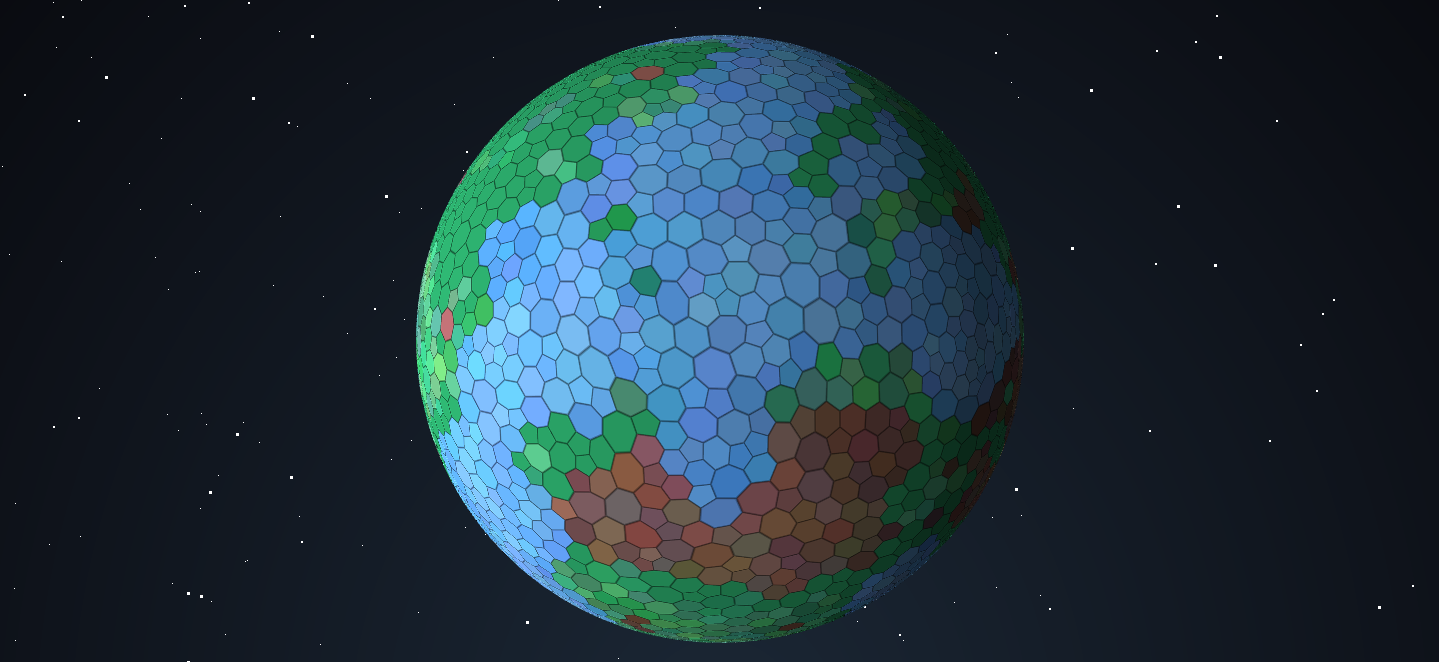
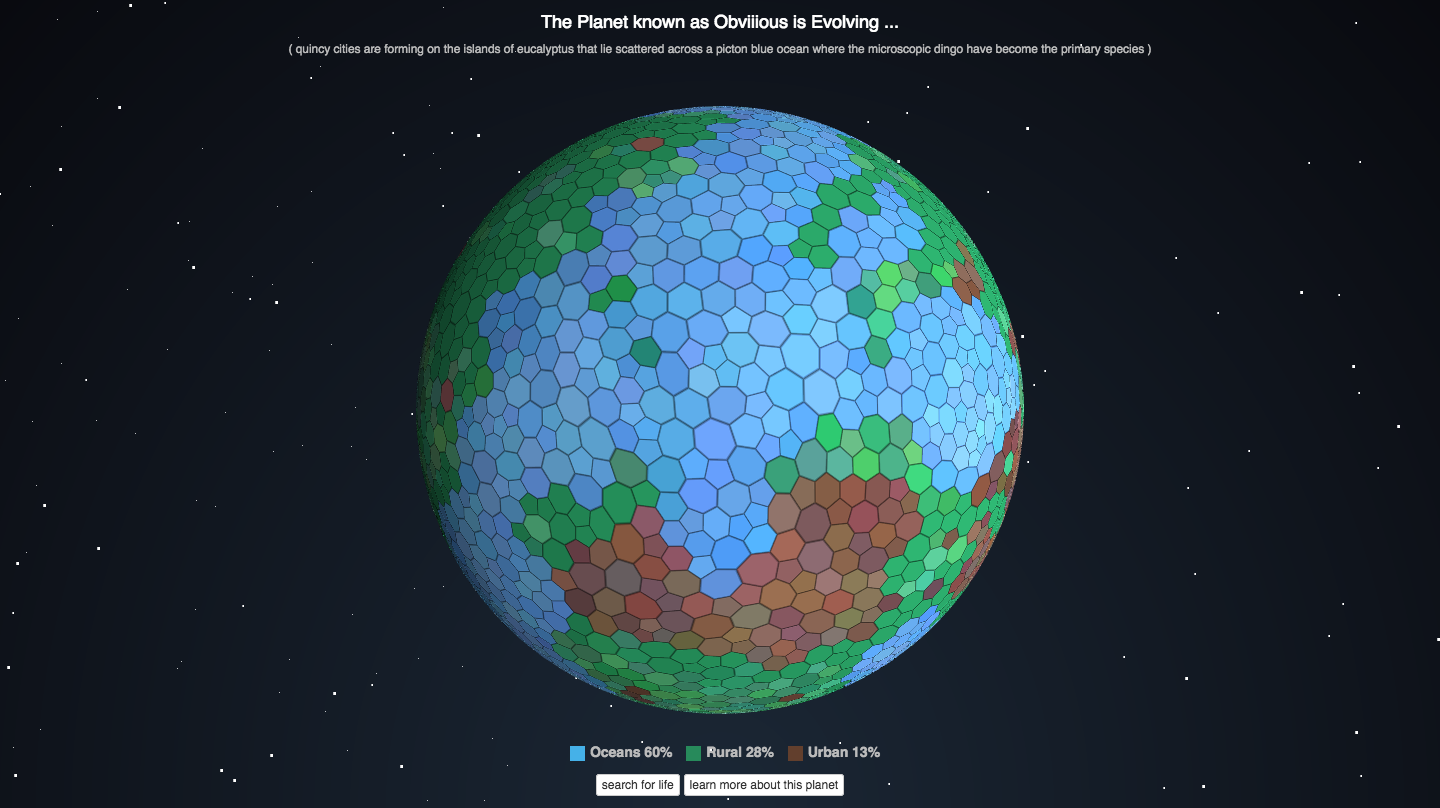
updated readme

Changed region(s): [[0.214, 0.0, 0.795, 0.997]]

diff --git a/assets/js/planets.js b/assets/js/planets.js
@@ -155,9 +155,11 @@ $(document).ready(function()
             var cord_array = s[1].split(',');
             if(cord_array.length === 3)
             {
+                $('#header').hide();
+                $('#footer').hide();
                 get_eth_planet(cord_array[0], cord_array[1], cord_array[2], function(res)
                 {
-
+                    
                 });
             }
         }
@@ -222,10 +224,15 @@ $(document).ready(function()
         {
             $(form).find('button[type="submit"]').addClass('loading');
             $('#viewportFrame').find('canvas').hide();
+            $('#header').hide();
+            $('#footer').hide();
+            
             get_eth_planet(x, y, z, function(results)
             {
                 $('#viewportFrame').removeClass('loading'); 
                 $('#viewportFrame').find('canvas').show();
+                $('#header').show();
+                $('#footer').show();
                 $(form).show();
                 $(form).find('button[type="submit"]').removeClass('loading');
                 if($.isPlainObject(results))

diff --git a/assets/css/planets.css b/assets/css/planets.css
@@ -65,8 +65,6 @@ RESETS
     position: fixed;
     z-index: 999;
     line-height: 22px !important;
-    background: #EEE;
-    border-bottom: 2px solid #000;
     text-align: center;
     font-family: sans-serif;
     width: 100%;
@@ -74,11 +72,12 @@ RESETS
     left: 0;
     height: 70px;
     padding-top: 4px;
-    color: #333;
+    color: #BBB;
 }
 #header h4.planet-name {
     padding-bottom: 5px;
     margin-bottom: 0;
+    color: #FFF;
 }
 
 #footer {
@@ -86,8 +85,6 @@ RESETS
     position: fixed;
     z-index: 999;
     line-height: 22px !important;
-    background: #EEE;
-    border-top: 2px solid #000;
     text-align: center;
     font-family: sans-serif;
     width: 100%;
@@ -95,7 +92,7 @@ RESETS
     left: 0;
     height: 70px;
     padding-top: 4px;
-    color: #333;
+    color: #BBB;
 }
 
 .biome-key {

diff --git a/assets/js/bloqverse.js b/assets/js/bloqverse.js
@@ -88,6 +88,9 @@ var bloqverse = {
                 $(modal).find('.next-monarch').text(planet.rulers.female);
                 $(modal).find('.planet-dna').text(planet_dna);
                 $(modal).find('.planet-meta').text(planet_meta);
+                
+                $('#header').show();
+                $('#footer').show();
             }
             
         }
